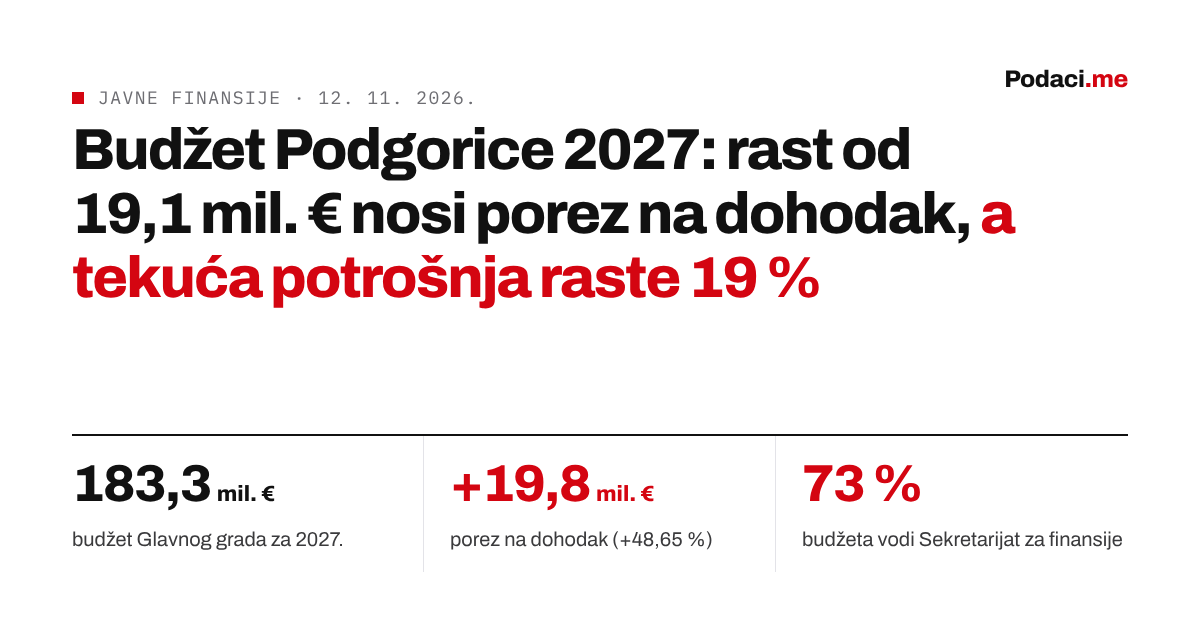
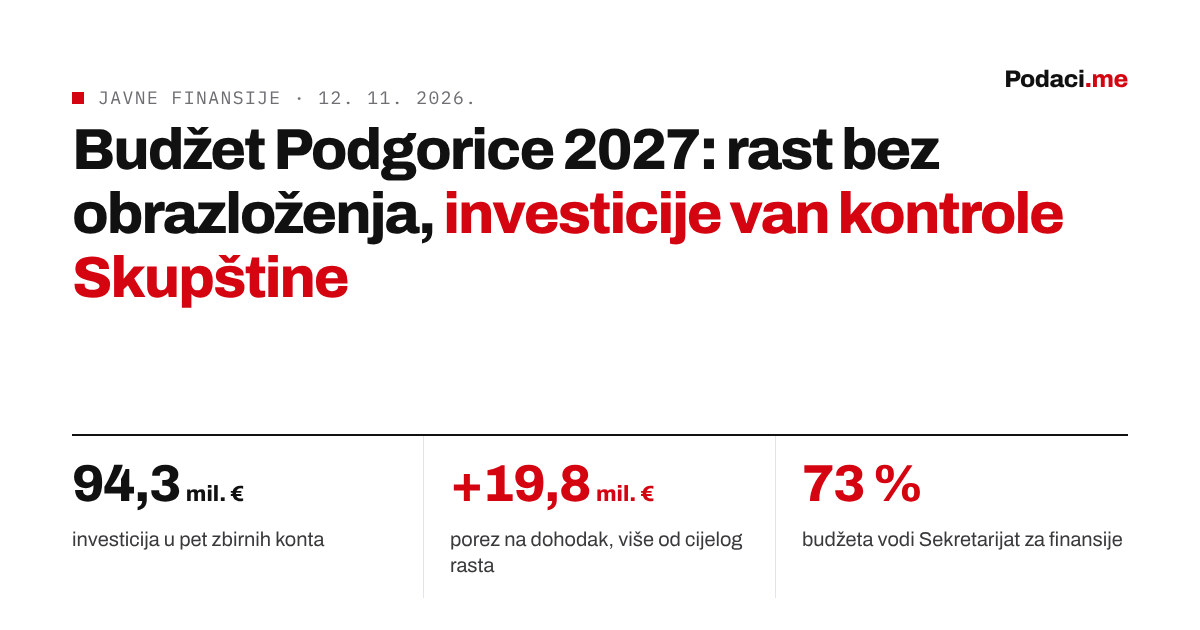
Budžet Podgorice 2027: kritički naslov
Naslov, opis i OG slika nose kritičku poruku: rast bez obrazloženja,
investicije van kontrole Skupštine. Isto na listi analiza na naslovnoj.

Claude-Session: https://claude.ai/code/session_01AQo9Q2XwhNd8QygncsNB6f

diff --git a/analize/budzet-podgorice-2027/index.html b/analize/budzet-podgorice-2027/index.html
@@ -3,15 +3,15 @@
 <head>
 <meta charset="utf-8">
 <meta name="viewport" content="width=device-width, initial-scale=1, viewport-fit=cover">
-<title>Budžet Podgorice 2027: rast nosi porez na dohodak — Podaci.me</title>
-<meta name="description" content="Nacrt budžeta Glavnog grada Podgorica za 2027: 183,3 mil. € (+11,6 %), porez na dohodak +19,8 mil. €, tekuća potrošnja +19 %, kapitalni budžet 94,3 mil. €. Kritička analiza u osam poglavlja sa rezimeom za građane.">
+<title>Budžet Podgorice 2027: rast bez obrazloženja, investicije van kontrole Skupštine — Podaci.me</title>
+<meta name="description" content="Nacrt budžeta Podgorice za 2027. raste 19,1 mil. € na jednom porezu, tekuća potrošnja raste brže od investicija, a 94,3 mil. € investicija ostaje van kontrole Skupštine. Sedam ključnih poruka kritike, dvanaest nekonzistentnosti i rezime za građane.">
 <link rel="canonical" href="https://www.podaci.me/analize/budzet-podgorice-2027/">
 <meta name="theme-color" content="#ffffff">
 <meta property="og:type" content="article"><meta property="og:site_name" content="Podaci.me"><meta property="og:url" content="https://www.podaci.me/analize/budzet-podgorice-2027/">
-<meta property="og:title" content="Budžet Podgorice 2027: rast nosi porez na dohodak — Podaci.me"><meta property="og:description" content="Nacrt budžeta Glavnog grada Podgorica za 2027: 183,3 mil. € (+11,6 %), porez na dohodak +19,8 mil. €, tekuća potrošnja +19 %, kapitalni budžet 94,3 mil. €. Kritička analiza u osam poglavlja sa rezimeom za građane.">
-<meta property="og:image" content="https://www.podaci.me/og-budzet-podgorice-2027.png"><meta property="og:image:width" content="1200"><meta property="og:image:height" content="630">
+<meta property="og:title" content="Budžet Podgorice 2027: rast bez obrazloženja, investicije van kontrole Skupštine — Podaci.me"><meta property="og:description" content="Nacrt budžeta Podgorice za 2027. raste 19,1 mil. € na jednom porezu, tekuća potrošnja raste brže od investicija, a 94,3 mil. € investicija ostaje van kontrole Skupštine. Sedam ključnih poruka kritike, dvanaest nekonzistentnosti i rezime za građane.">
+<meta property="og:image" content="https://www.podaci.me/og-budzet-podgorice-2027.png?v=2"><meta property="og:image:width" content="1200"><meta property="og:image:height" content="630">
 <meta property="og:locale" content="sr_ME"><meta property="article:published_time" content="2026-11-12">
-<meta name="twitter:card" content="summary_large_image"><meta name="twitter:image" content="https://www.podaci.me/og-budzet-podgorice-2027.png">
+<meta name="twitter:card" content="summary_large_image"><meta name="twitter:image" content="https://www.podaci.me/og-budzet-podgorice-2027.png?v=2">
 <link rel="icon" href="/favicon.svg" type="image/svg+xml">
 <link rel="preconnect" href="https://fonts.googleapis.com">
 <link rel="stylesheet" href="https://fonts.googleapis.com/css2?family=Archivo:wght@400;500;600;700;800&family=IBM+Plex+Mono:wght@400;500&display=swap">

diff --git a/index.html b/index.html
@@ -203,7 +203,7 @@ a.area:hover h3{color:var(--accent-text)}
           <a class="an" href="/analize/budzet-podgorice-2027/">
             <p class="an__meta"><time datetime="2026-11-12">12. 11. 2026.</time><b>Javne finansije</b><span>8 poglavlja</span></p>
             <div class="an__body">
-              <h3>Budžet Podgorice 2027: rast nosi porez na dohodak, a tekuća potrošnja raste 19&nbsp;%</h3>
+              <h3>Budžet Podgorice 2027: rast bez obrazloženja, investicije van kontrole Skupštine</h3>
               <p class="dek">Nacrt odluke o budžetu Glavnog grada za 2027. upoređen sa budžetom za 2026: prihodi, tekuća potrošnja, kapitalni budžet, potrošačke jedinice, dug i sporovi. Sa sedam ključnih poruka kritike, dvanaest nekonzistentnosti i rezimeom za građane.</p>
               <span class="an__go">Otvorite analizu <span class="arr" aria-hidden="true">→</span></span>
             </div>
